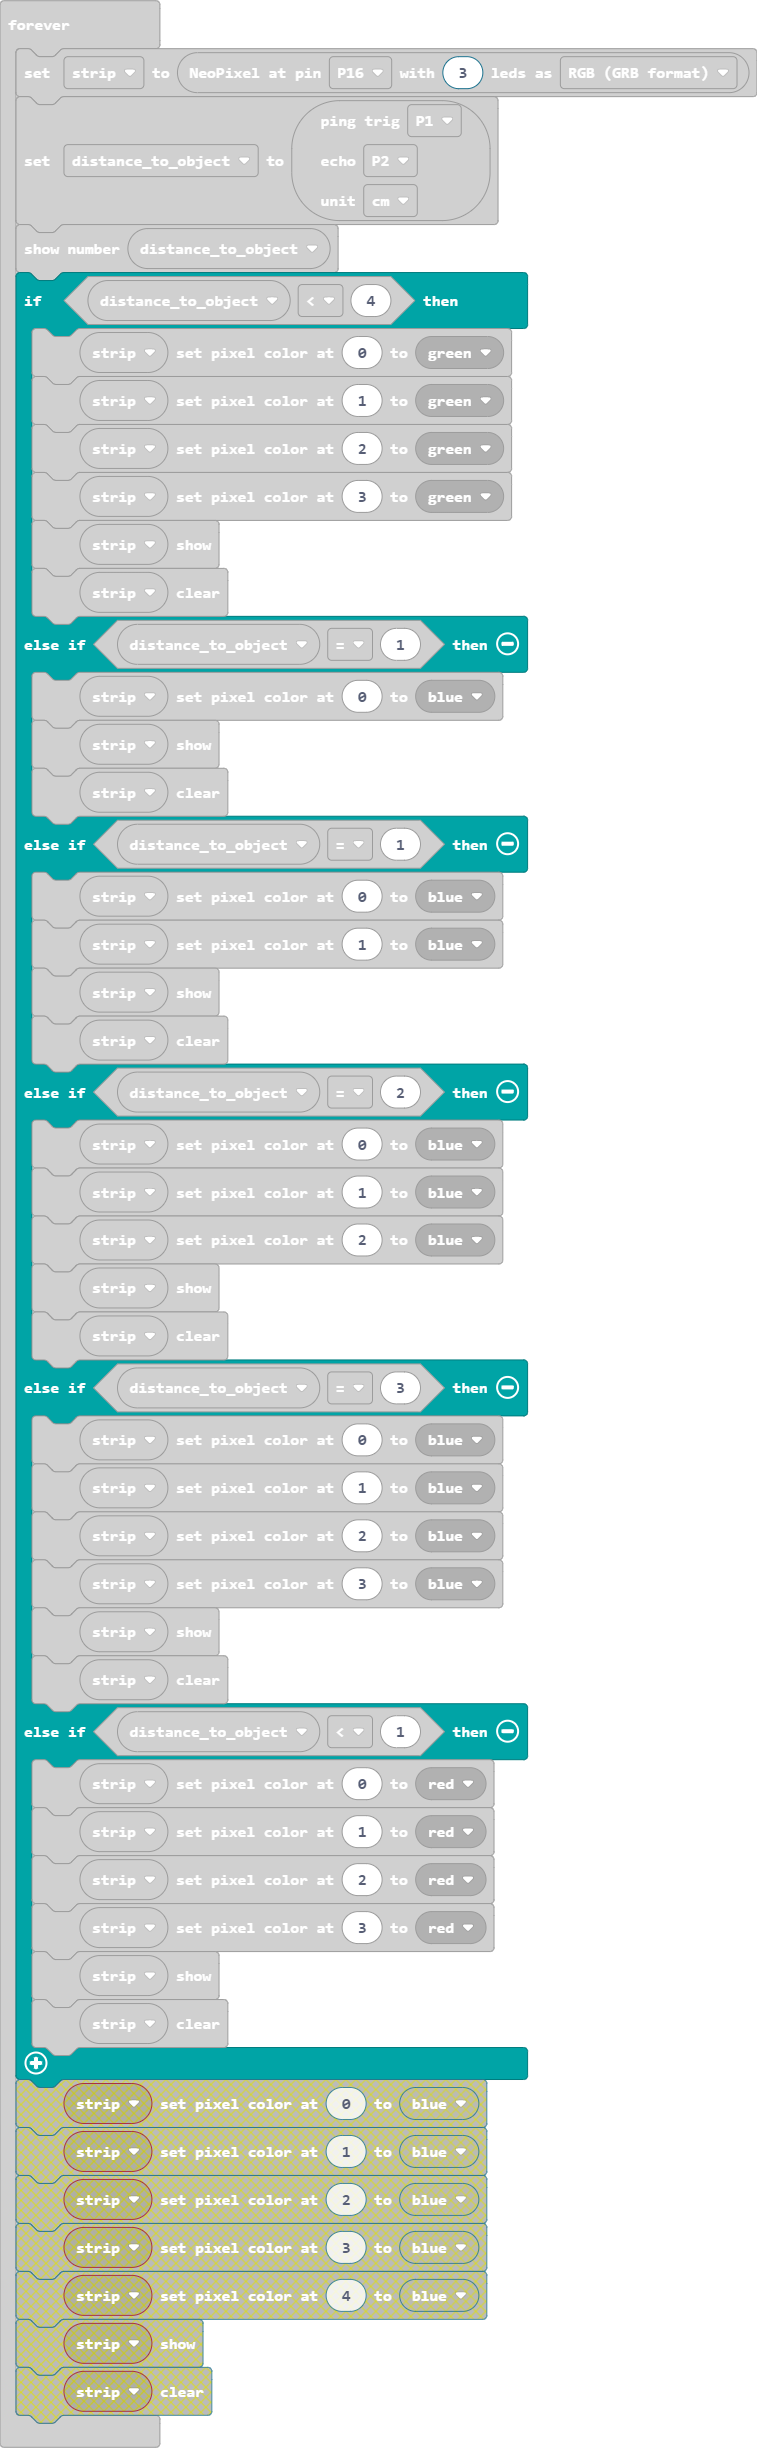
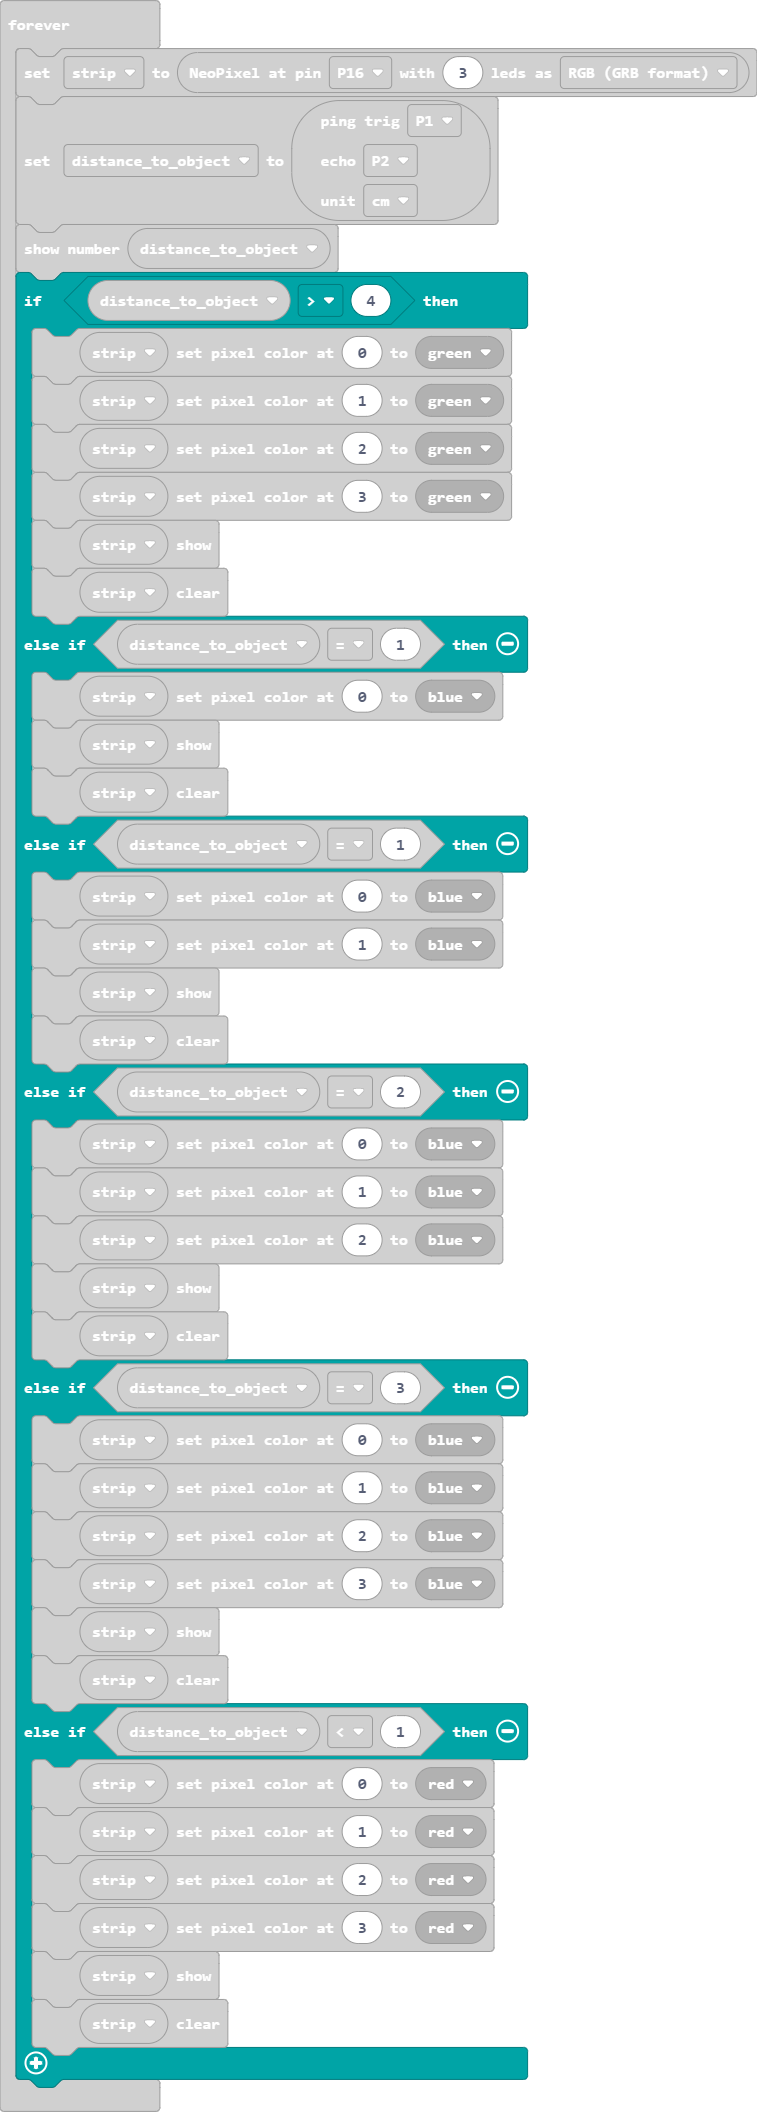
Update main.blocks, main.ts

diff --git a/main.ts b/main.ts
@@ -10,7 +10,7 @@ basic.forever(function () {
     PingUnit.Centimeters
     )
     basic.showNumber(distance_to_object)
-    if (distance_to_object < 4) {
+    if (distance_to_object > 4) {
         strip.setPixelColor(0, neopixel.colors(NeoPixelColors.Green))
         strip.setPixelColor(1, neopixel.colors(NeoPixelColors.Green))
         strip.setPixelColor(2, neopixel.colors(NeoPixelColors.Green))
